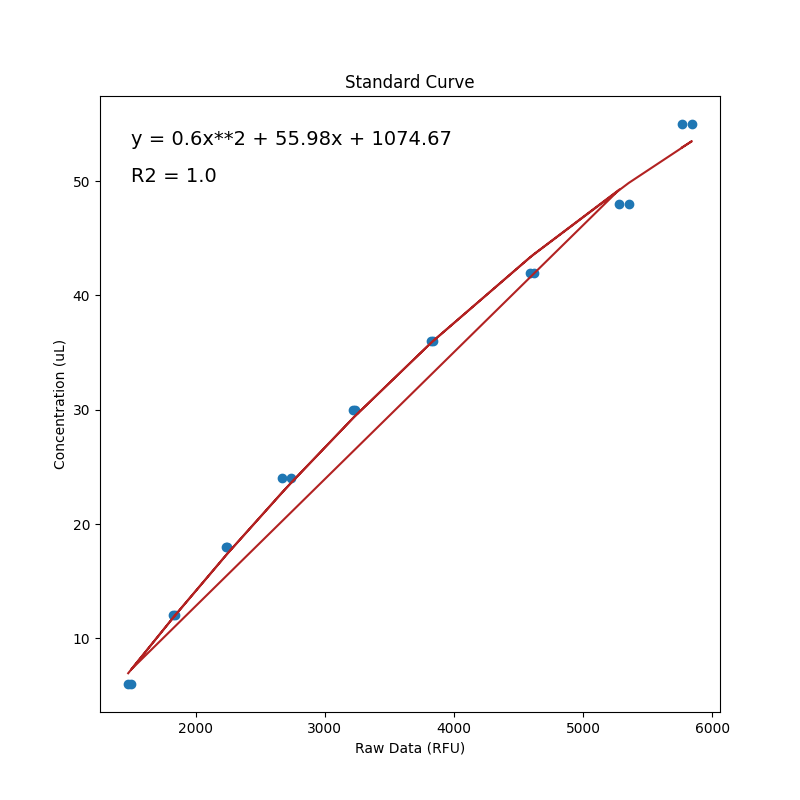
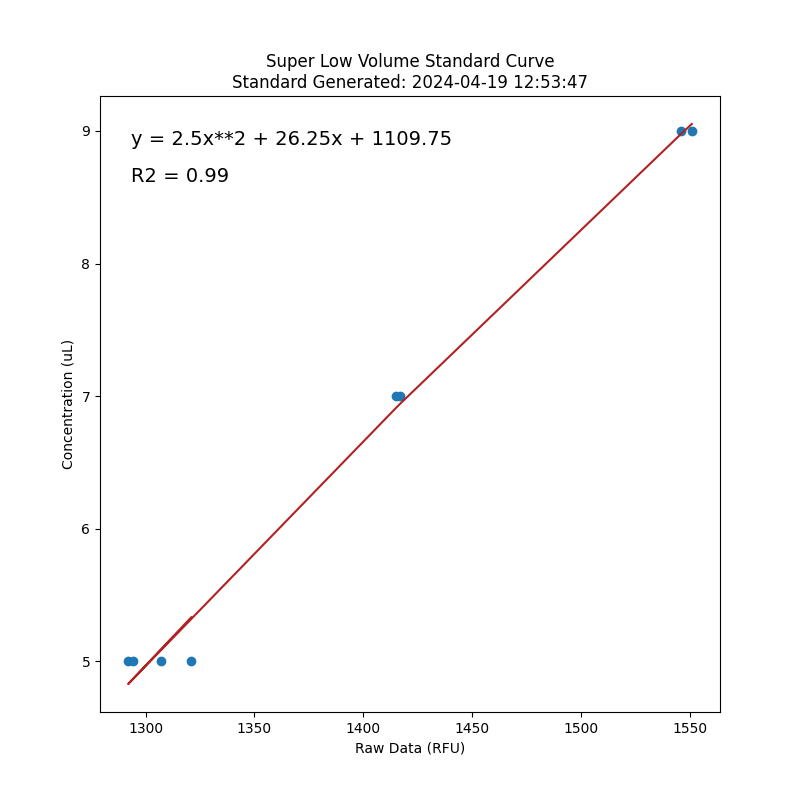
Low Volume +EPP Updates

diff --git a/web/AutoVV.py b/web/AutoVV.py
@@ -25,7 +25,8 @@ else:
 
 # Define the paths for the sample and standard files 
 RESULTS_PATH_SAMPLE = r"C:\Users\guardant\Documents\AutoVV\Sample_Location\Sample_fileLocation.txt"
-RESULTS_PATH_STD = r"C:\Users\guardant\Documents\AutoVV\STD_Location\STD_fileLocation.txt"
+RESULTS_PATH_STD_4TT = r"C:\Users\guardant\Documents\AutoVV\STD_Location\STD_fileLocation.txt"
+RESULTS_PATH_STD_EPP = r"C:\Users\guardant\Documents\AutoVV\STD_Location\STD_EPP_fileLocation.txt"
 RESULTS_PATH_BACKUPS = r"S:\OncEngDB\AutoVV Spark Output Files\Backups"
 # use this line when packaging for pyinstaller
 #RESULTS_PATH_LOCAL = os.path.join(base_path, 'web', 'img')
@@ -35,45 +36,84 @@ RESULTS_PATH_LOCAL = "web/img"
 if not os.path.exists(RESULTS_PATH_LOCAL):
     os.makedirs(RESULTS_PATH_LOCAL)
 
+
 #defining the standard concentrations for the standard curve
+standard_conc_superLow = [5,5,5,5,7,7,9,9]
 standard_conc_low =[6,12,18,24,30,36,42,48,6,12,18,24,30,36,42,48,55,55]
 standard_conc_mid=[49,49,55,59,63,67,71,75,79,83,55,59,63,67,71,75,79,83] 
 standard_conc_high=[100,107,114,121,128,135,142,149,100,107,114,121,128,135,142,149]
 
+
 #defining the expected volume for each method and plate and the range of the plate for heatmap
+# methodname_plate = [expected_volume, min_volume, max_volume, flag for beadsub, plate_type(4TT/EPP)]
+# odd plates - Norms input plates, MBDS dil + sample, RNA + DNA LPA
 dict_methods_plate_volume ={
-    "BE_PLC": [75,68,83],
-    "BE_UTE": [55,47,63],
-    "MBDS_PLC (dilution)": [10,3,15],
-    "MBDS_PLC (sample)": [64,59,69],
-    "MBDS_UTE": [127,117,131],
-    "MBDS_CAR":[9,4,12],
-    "MBDC_PLC":[32.5,29,36],
-    "MBDC_DSB":[55,49,62],
-    "LP_ERM": [16,13,19],
-    "LP_LPA": [11,3,13],
-    "LP_LOM": [15,0,15],
-    "LP_LGM": [34,30,38],
-    "LP_DSB": [69,56,82],
-    "LP_LMO": [77.5,70,86],
-    "LP_LMR": [77.5,70,86],
-    "LPC_DSB": [45,38,53],
-    "LPC_PLC1": [26,23,29],
-    "LPC_PLC2": [44,40,48],
-    "ENS_PLC1": [18,13,21],
-    "ENS_PLC2": [36,33,39],
-    "ENS_FHB": [20,5,25],
-    "ENS_GBB": [28,23,33],
-    "ENS_EBB": [28,23,33],
-    "ENW_NOH": [120,115,125],
-    "ENW_TRS": [44.5,40,50],
-    "ENW_IO_": [83.5,76,91],
-    "ENW_EMM": [8,0,12],
-    "ENC_DSB": [70,56,85],
-    "ENT_PLC": [50,40,60]
+    #pre methods (phoenix + LY)
+    "BE_PLC": [75,68,83,1,"4TT"], #BeadSub (LY)
+    "BE_UTE": [55,47,63,0,"4TT"], #LY
+    "MBDS_PLC (dilution)": [10,3,15,0,"4TT"],#LY
+    "MBDS_PLC (sample)": [64,59,69,0,"4TT"],#LY
+    "MBDS_UTE": [127,117,131,0,"4TT"],#LY
+    "MBDS_CAR":[9,4,12,0,"4TT"],#LY
+    "MBDC_PLC":[32.5,29,36,"4TT"], #BeadSub
+    "MBDC_DSB":[55,49,62,0,"4TT"],
+    "LP_ERM": [16,13,19,0,"4TT"],
+    "LP_LPA": [11,3,13,0,"4TT"],
+    "LP_LOY": [30,24,33,0,"EPP"],
+    "LP_LOR": [10,8,12,0,"EPP"],
+    "LP_LGM": [34,30,38,0,"4TT"],
+    "LP_DSB": [69,56,82,0,"4TT"],
+    "LP_LMO": [77.5,70,86,1,"4TT"], #BeadSub
+    "LP_LMR": [77.5,70,86,1,"4TT"], #BeadSub
+    #phoenix specific methods (PRE)
+    "DNQ_PLC (Output)":[46,38,48,0,"4TT"],
+    "DNQ_PLC (Dilution)":[36,32,40,0,"4TT"],
+    "DNN_PLC (Input)":[35,30,40,0,"4TT"],
+    "DNN_PLC (Output)":[29,26,32,0,"4TT"],
+    "EFR_NUB":[9,7,11,0,"EPP"],
+    "EFR_NFR":[9,7,10,0,"EPP"],
+    "EFR_NPK":[9,7,10,0,"EPP"],
+    "EFR_PLC":[90,81,99,1,"4TT"], #BeadSub
+    #phoenix RNA methods
+    "RNQ_PLC (Output)":[66,56,68,0,"4TT"],
+    "RNQ_PLC (Sample Working)":[10,7,11,0,"4TT"],
+    "RNQ_PLC (Standard Working)":[10,7,11,0,"4TT"],
+    "RNN_PLC (Input)":[52,50,60,0,"4TT"],
+    "RNN_PLC (Output)":[5,4,6,0,"4TT"],
+    "cDNA_NRP":[4,2,5,0,"EPP"],
+    "cDNA_N1B":[5,2,7,0,"EPP"],
+    "cDNA_N1S":[5,2,7,0,"EPP"],
+    "cDNA_N1E":[28,25,31,0,"EPP"],
+    "cDNA_N2B":[5,4,8,0,"EPP"],
+    "cDNA_N2E":[30,27,33,0,"EPP"],
+    "cDNA_PLC":[32.5,29,36,1,"4TT"], #BeadSub
+    "cDNA_DSB":[84,75,93,0,"4TT"],
+    "RLP_LPA":[11,3,13,0,"4TT"],
+    "RLP_ERM":[22.5,18,25,0,"4TT"],
+    "RLP_LOR":[10,8,12,0,"EPP"],
+    "RLP_LGM":[56,50,62,0,"4TT"],
+    "RLP_LMO":[77.5,70,86,1,"4TT"],#BeadSub
+    "RLP_USER":[4,2,6,0,"EPP"],
+    #post methods (ENS for phoenix is different)
+    "LPC_DSB": [45,38,53,0,"4TT"],
+    "LPC_PLC (Genomic)": [26,23,29,1,"4TT"], #BeadSub
+    "LPC_PLC (Epi)": [44,40,48,1,"4TT"], #BeadSub
+    "ENS_PLC (Genomic)": [18,13,21,0,"4TT"],
+    "ENS_PLC (Epi)": [36,33,39,0,"4TT"],
+    "ENS_FHB": [20,5,25,0,"4TT"],
+    "ENS_GBB": [28,23,33,0,"4TT"],
+    "ENS_EBB": [28,23,33,0,"4TT"],
+    "ENW_NOH": [120,115,125,0,"4TT"],
+    "ENW_TRS": [44.5,40,50,0,"4TT"],
+    "ENW_IO_": [83.5,76,91,0,"4TT"],
+    "ENW_EMM": [8,0,12,0,"4TT"],
+    "ENC_DSB": [70,56,85,0,"4TT"],
+    "ENT_PLC": [50,40,60,0,"4TT"],
 } 
 
 def get_Excel_File(initial_file_path):
+    print("Getting Excel File", initial_file_path)
+    print("\n")
     sample_path = os.path.split(initial_file_path) 
     file_path = sample_path[0][:-3] + "xlsx"
     files = os.listdir(file_path)
@@ -109,30 +149,38 @@ def average_std_list_values(list_1,list_2):
     for i in range(0, len(list_1)):
         avg_list_std.append((list_1[i] + list_2[i])/2)
     return(avg_list_std)
-    
+
 
 def autoVV_Analysis():
     #grabbing txt file from c# for file paths 
+    print("Getting txt files for results and standards", RESULTS_PATH_SAMPLE , RESULTS_PATH_STD_4TT, RESULTS_PATH_STD_EPP)
     sample_file_path = open(RESULTS_PATH_SAMPLE, "r")
-    std_file_path = open(RESULTS_PATH_STD, "r")
     lst_std_path = []
     lst_sample_info = []
+
     for x in sample_file_path:
         x =x[:-1]
         lst_sample_info.append(x)
-    for x in std_file_path:
-        x = x[:-1]
-        lst_std_path.append(x)
 
     print(lst_sample_info)
     print(lst_std_path)
     sample_path = get_Excel_File(lst_sample_info[0])
     std_path = get_Excel_File(lst_std_path[0])
     method_plate = lst_sample_info[1]+ "_"+ lst_sample_info[2]
-    bln_beadsub= lst_sample_info[3]
-    print(method_plate)
-    print(sample_path)
-    print(std_path)
+
+    if dict_methods_plate_volume[method_plate][5] == "EPP":
+        std_file_path = open(RESULTS_PATH_STD_EPP, "r")
+    else:
+        std_file_path = open(RESULTS_PATH_STD_4TT, "r")
+    
+    for x in std_file_path:
+        x = x[:-1]
+        lst_std_path.append(x)
+
+    print("Method + Plate Name: ",method_plate)
+    print("Sample Path: ", sample_path)
+    print("STD Path: ",std_path)
+
     folder_name = dt_string + "_"+ method_plate
     save_path = os.path.join(RESULTS_PATH_BACKUPS,folder_name)
 
@@ -140,20 +188,20 @@ def autoVV_Analysis():
     if not os.path.exists(save_path):
         os.makedirs(save_path)
 
-
     #formmating the STD file into low mid and high
     std_df1 = pd.read_excel(std_path, header = None)
     std_df = pd.read_excel(std_path)
     
     instrument_SN = std_df1.at[2,4]
     instrument_SN = instrument_SN.replace('Serial number: ',"")
-    date_time1 = std_df1.loc[43,4]
+    date_time1 = std_df1.loc[44,4]
     print("This is Tecan Spark SN: ",instrument_SN)
     
     try:    
-        std_low = reformat_STD_map_list(0,45,54,129,std_df)
-        std_mid = reformat_STD_map_list(0,79,88,129,std_df)
-        std_high = reformat_STD_map_list(0,113,122,129,std_df)
+        std_superLow = reformat_STD_map_list(0,148,157,164,std_df)
+        std_low = reformat_STD_map_list(0,46,55,164,std_df)
+        std_mid = reformat_STD_map_list(0,80,89,164,std_df)
+        std_high = reformat_STD_map_list(0,114,123,164,std_df)
         
         low_coln1 = std_low[1].tolist()
         low_coln2 = std_low[2].tolist()
@@ -166,7 +214,10 @@ def autoVV_Analysis():
 
         high_coln1 = std_high[5].tolist()
         high_coln2 = std_high[6].tolist()
-        
+
+        splow_coln1 = std_superLow[7].tolist()
+
+    # Exception for when .xlsx file is formatted in list format instead of plate format
     except KeyError:
         std_low = reformat_STD_list_to_DF(0,56,152,403,std_df)
         std_mid = reformat_STD_list_to_DF(0,178,274,403,std_df)
@@ -184,6 +235,9 @@ def autoVV_Analysis():
 
         high_coln1 = std_high["5"].tolist()
         high_coln2 = std_high["6"].tolist()
+
+    splow_list_std = splow_coln1
+    print(splow_list_std)
 
     low_list_std= low_coln1+low_coln2
     low_list_std.append((low_coln3[0]))
@@ -203,15 +257,23 @@ def autoVV_Analysis():
     vol_min = float(list_sample[1])
     vol_max = float(list_sample[2])
     str_vol_range = str(vol_min) + " - " + str(vol_max)
-    if vol_expected <50:
+    standardCurveName = ""
+    if vol_expected <11:
+        expected_volume_std = standard_conc_superLow
+        generated_volume_std = splow_list_std
+        standardCurveName = "Super Low Volume Standard Curve"
+    if vol_expected >11 and vol_expected <50:
         expected_volume_std = standard_conc_low
         generated_volume_std = low_list_std
+        standardCurveName = "Low Volume Standard Curve"
     elif vol_expected >= 50 and vol_expected < 100:
         expected_volume_std = standard_conc_mid
         generated_volume_std = mid_list_std
+        standardCurveName = "Mid Volume Standard Curve"
     elif vol_expected >= 100:
         expected_volume_std = standard_conc_high
         generated_volume_std = high_list_std
+        standardCurveName = "High Volume Standard Curve"
     print("standard RFUs: ",generated_volume_std)
     print("standard volume Expected: ",expected_volume_std)
     
@@ -236,7 +298,7 @@ def autoVV_Analysis():
     plt.figure(figsize=(8, 8))
     plt.scatter(generated_volume_std,expected_volume_std)
     plt.plot(generated_volume_std, lr_2.predict(X_poly),color = 'firebrick')
-    plt.title("Standard Curve")
+    plt.title(standardCurveName + "\n" + "Standard Generated: " +date_time1)
     plt.ylabel("Concentration (uL)")
     plt.xlabel("Raw Data (RFU)")
 
@@ -267,14 +329,14 @@ def autoVV_Analysis():
             int_value = int(value)
         except ValueError:
             int_value = 0 
-        if bln_beadsub == "True":
+        if dict_methods_plate_volume[method_plate][4] == 1:
             if x >=41 and x <= 56:
                 expected_blanks.append(round(lr_2.predict(pr.fit_transform([[int_value]]))[0],2))
             else:
                 bead_samples.append(round(lr_2.predict(pr.fit_transform([[int_value]]))[0],2))
         volume_calculated.append(round(lr_2.predict(pr.fit_transform([[int_value]]))[0],2))
 
-    if bln_beadsub == "True":
+    if dict_methods_plate_volume[method_plate][4] == 1:
         avg_blanks = round(statistics.fmean(expected_blanks),2)
         avg_samples = round(statistics.fmean(bead_samples),2)
         volume_calculated= [x - (avg_samples-avg_blanks) for x in volume_calculated]
